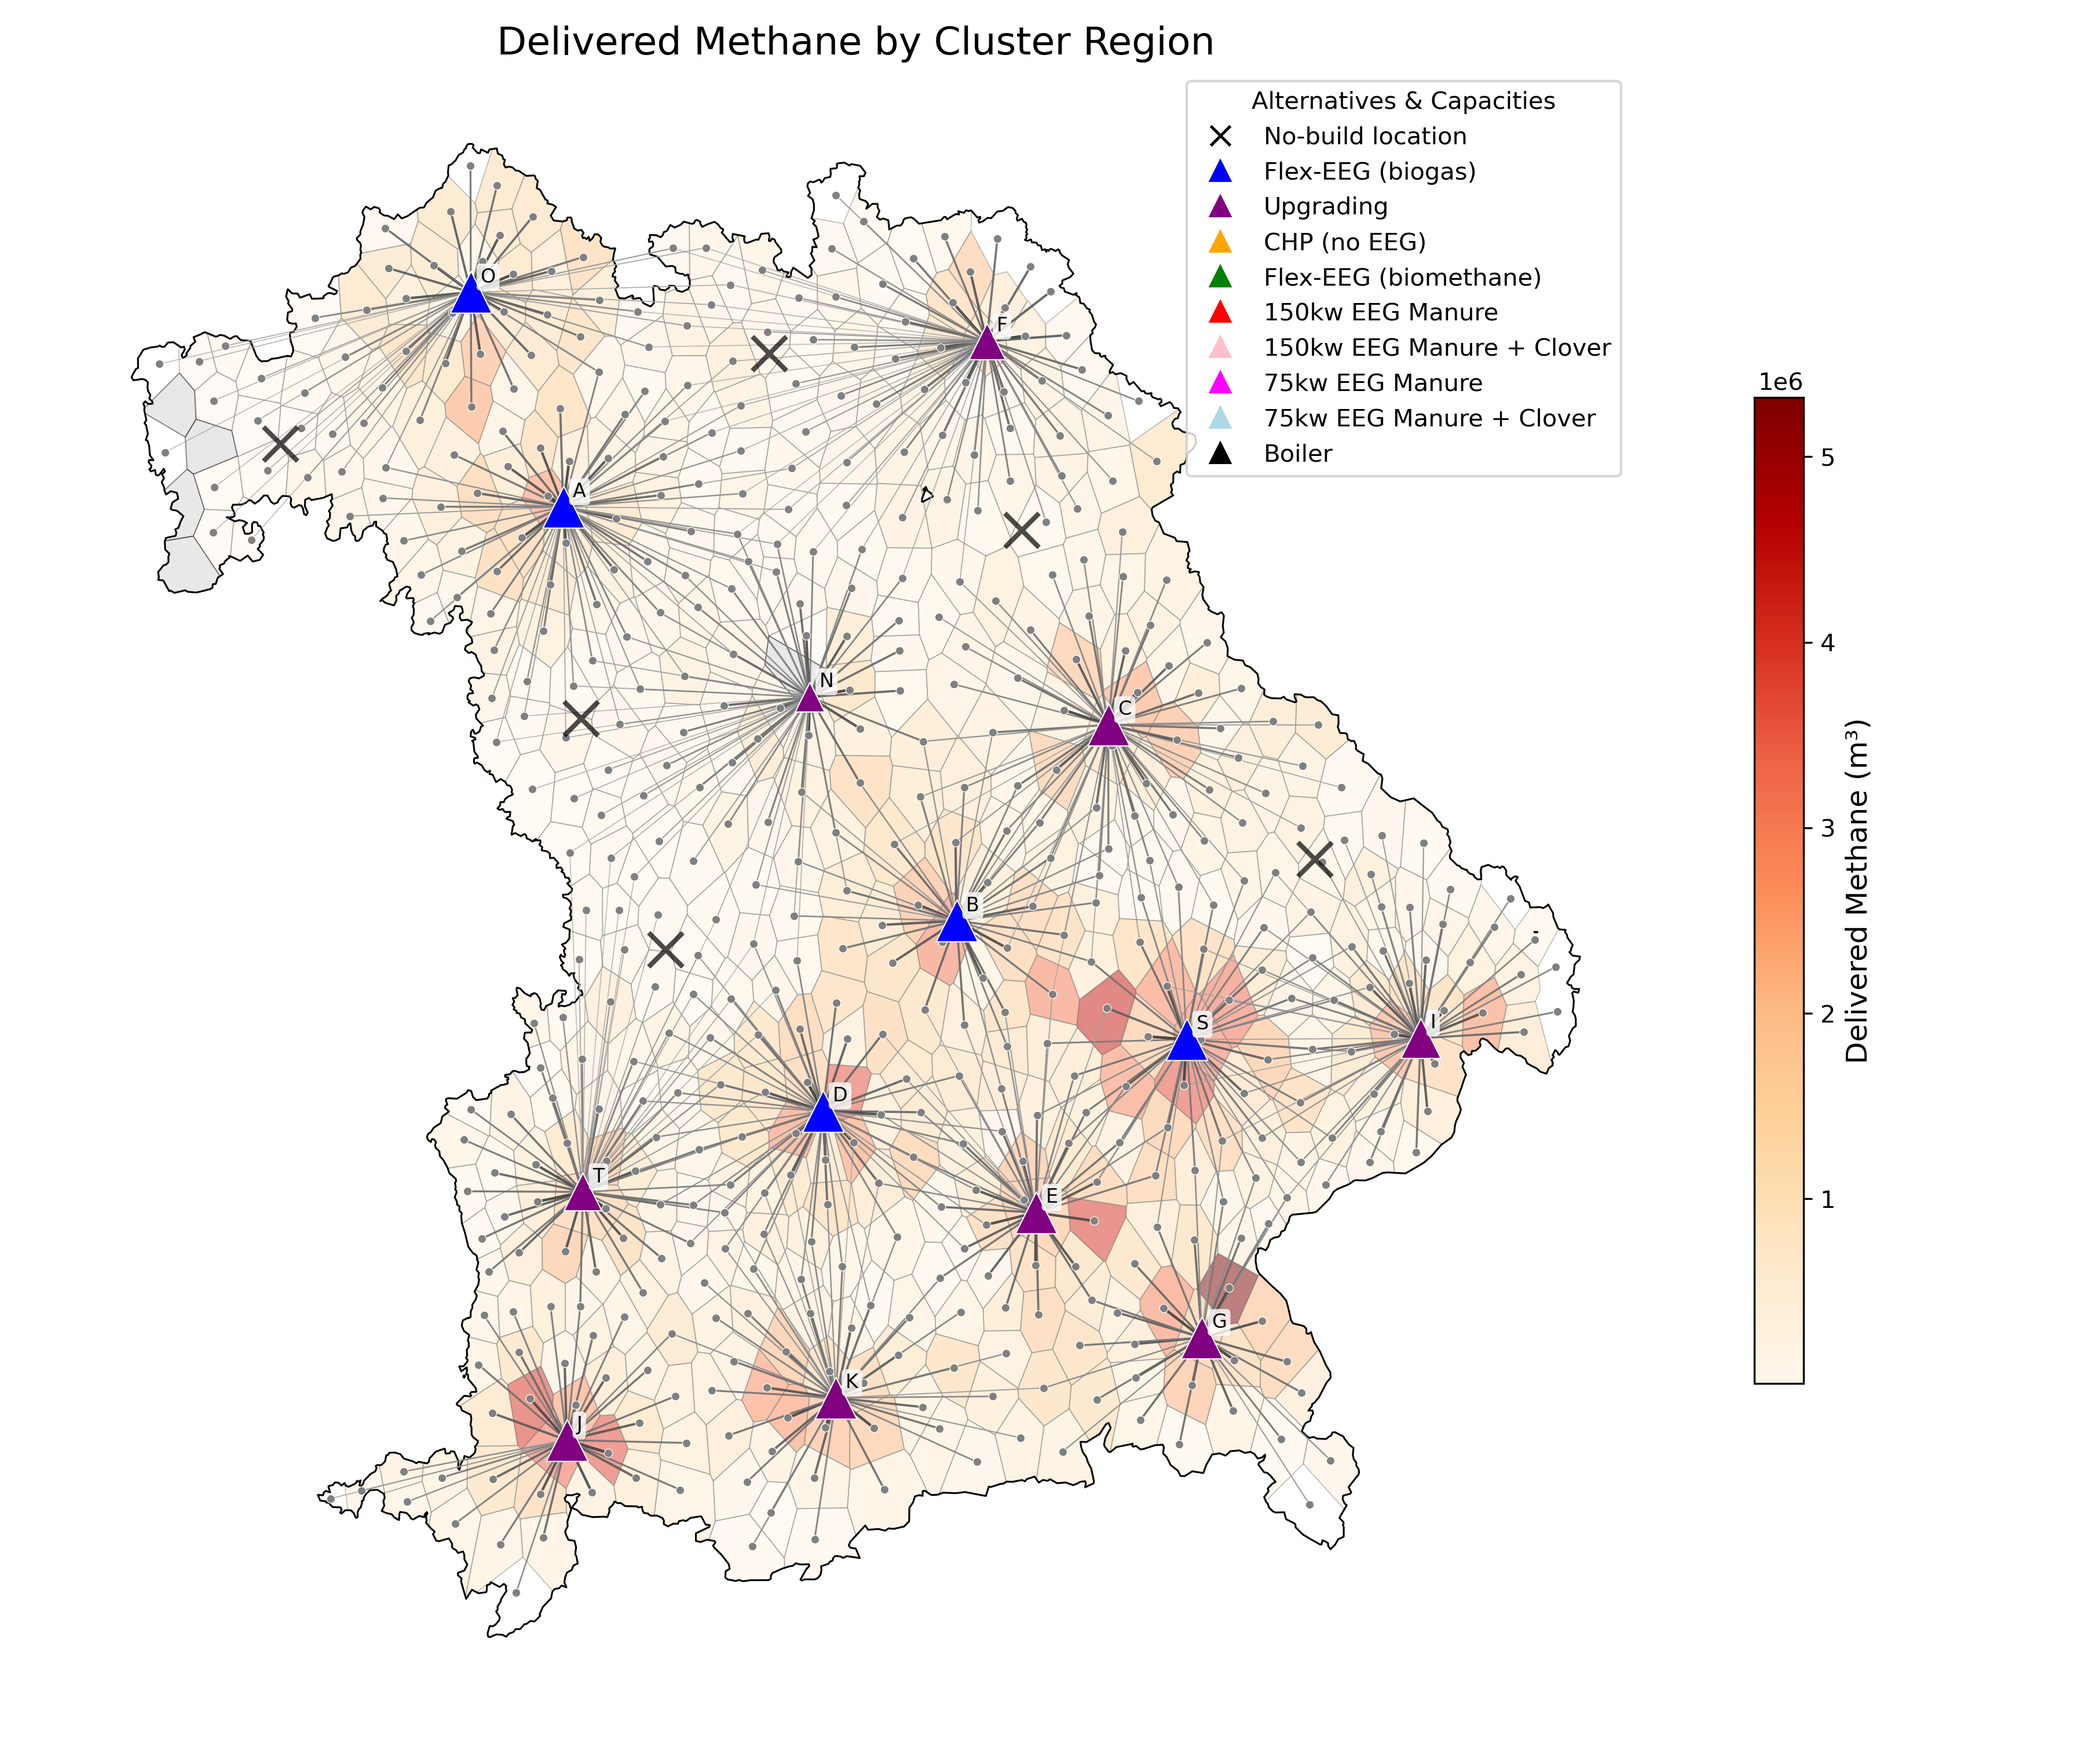
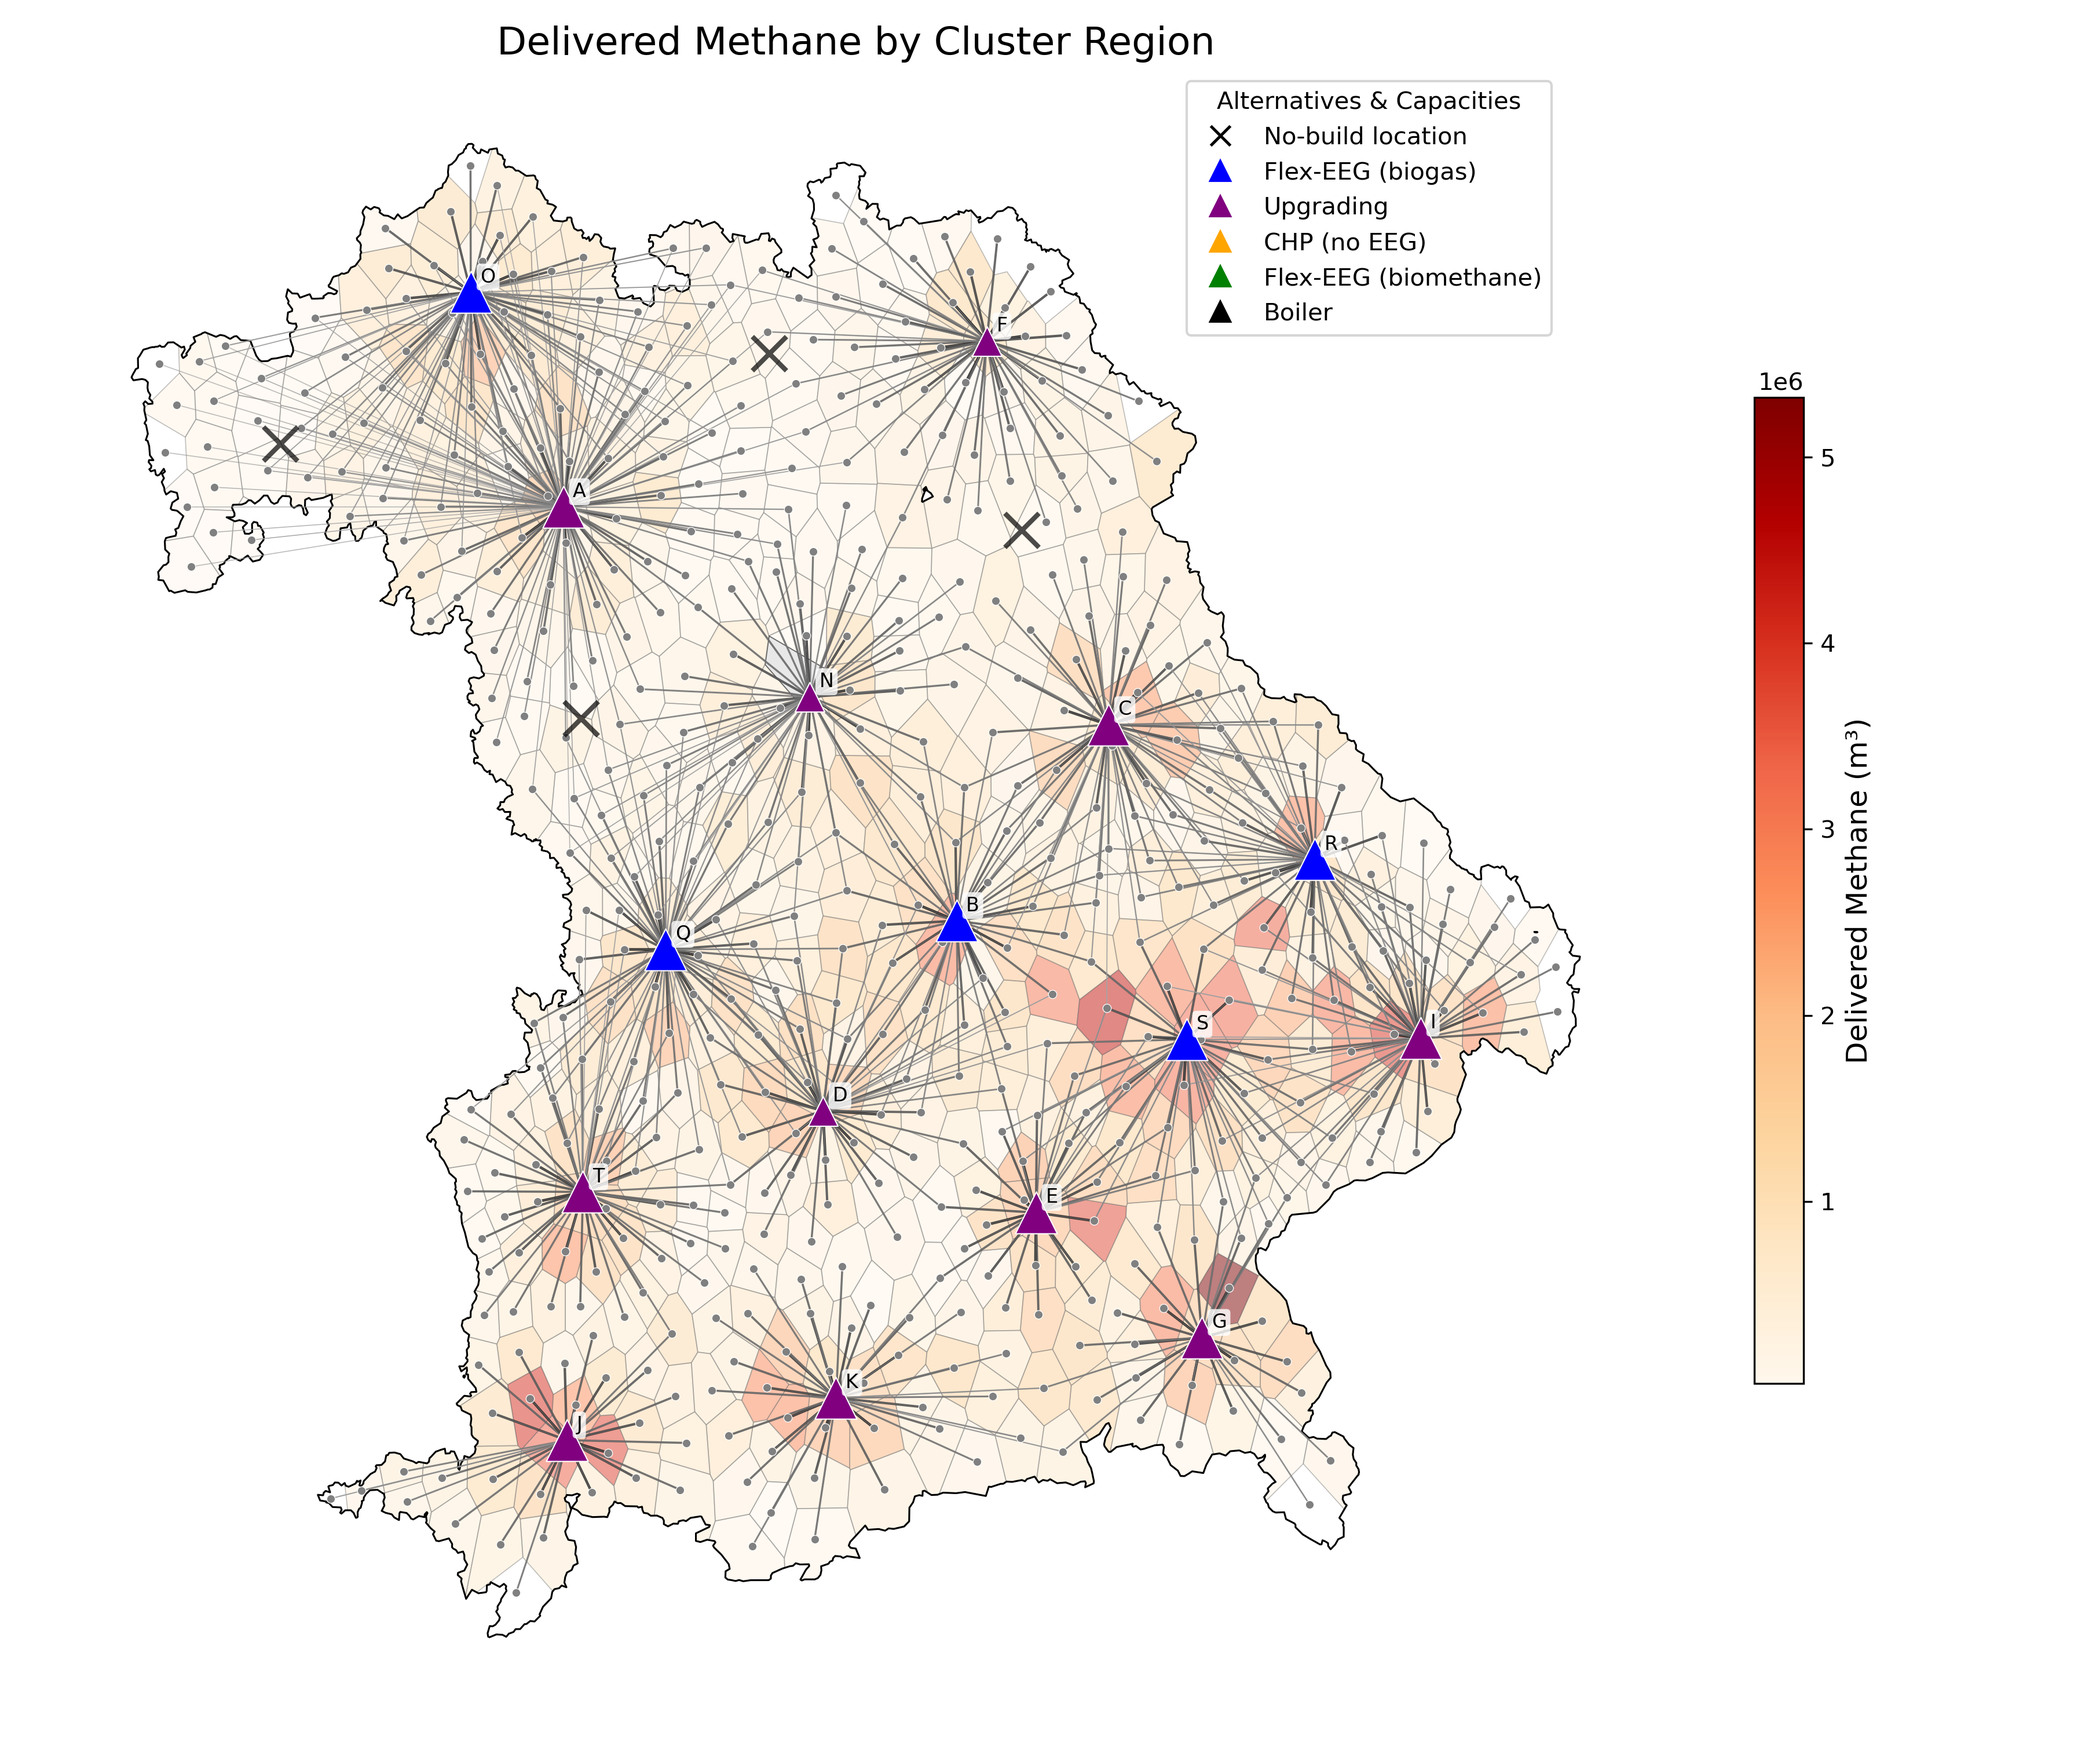
eee

diff --git a/code/greedy_capacity.py b/code/greedy_capacity.py
@@ -26,8 +26,8 @@ def load_data():
 
     try:
         feedstock_df = safe_load_csv(f"{BASE_DIR}aggregated_bavaria_supply_nodes.csv")
-        plant_df = safe_load_csv(f"{BASE_DIR}equally_spaced_locations_20.csv")
-        distance_df = safe_load_csv(f"{BASE_DIR}Distance_Matrix_20.csv")
+        plant_df = safe_load_csv(f"{BASE_DIR}Solutions/100/equally_spaced_locations_100.csv")
+        distance_df = safe_load_csv(f"{BASE_DIR}Solutions/100/Distance_Matrix.csv")
         yields_df = safe_load_csv(f"{BASE_DIR}Feedstock_yields.csv")
     except FileNotFoundError as e:
         print(f"Critical error: {str(e)}")
@@ -86,43 +86,12 @@ def initialize_parameters():
     }
 
 # Define CAPACITY LEVELS
-capacity_levels = [10_000_000, 20_000_000, 40_000_000, 60_000_000]
+capacity_levels = [500000,]
 
 # Define ALTERNATIVE CONFIGURATIONS
 # Define alternative configurations
 def get_alternative_configs(params):
     return [
-        {"name": "FlexEEG_biogas", "category": "FlexEEG_biogas", "prod_cap_factor": params["cap_biogas"], 
-         "max_cap_m3_year": None, "upg_cost_coeff": 0, "upg_cost_exp": 0, 
-         "rev_price": {"EEG": params["EEG_skip_chp_price"]}, "EEG_flag": True, 
-         "GHG_eligible": False, "feed_constraint": None, "capex_coeff": 150.12, 
-         "capex_exp": -0.311, "capex_type": "standard", "opex_coeff": 2.1209, 
-         "opex_exp": 0.8359, "opex_type": "standard"},
-        
-        {"name": "Upgrading_tech1", "category": "Upgrading", "prod_cap_factor": 1.0, 
-         "max_cap_m3_year": None, "upg_cost_coeff": 47777, "upg_cost_exp": -0.421, 
-         "rev_price": {"gas": params["gas_price_mwh"] * (params["alphaHV"] / 1000), 
-                      "co2": params["co2_price_ton"] / 556.2}, 
-         "EEG_flag": False, "GHG_eligible": True, "feed_constraint": None, 
-         "capex_coeff": 150.12, "capex_exp": -0.311, "capex_type": "standard", 
-         "opex_coeff": 2.1209, "opex_exp": 0.8359, "opex_type": "standard"},
-        
-        {"name": "nonEEG_CHP", "category": "CHP_nonEEG", "prod_cap_factor": 1.0, 
-         "max_cap_m3_year": None, "upg_cost_coeff": 0, "upg_cost_exp": 0, 
-         "rev_price": {"spot": params["electricity_spot_price"], 
-                      "heat": params["heat_price"]}, 
-         "EEG_flag": False, "GHG_eligible": False, "feed_constraint": None, 
-         "capex_coeff": 150.12, "capex_exp": -0.311, "capex_type": "standard", 
-         "opex_coeff": 2.1209, "opex_exp": 0.8359, "opex_type": "standard"},
-        
-        {"name": "FlexEEG_biomethane_tech1", "category": "FlexEEG_biomethane", 
-         "prod_cap_factor": params["cap_biomethane"], "max_cap_m3_year": None, 
-         "upg_cost_coeff": 47777, "upg_cost_exp": -0.421, 
-         "rev_price": {"EEG": params["EEG_skip_upg_price"]}, "EEG_flag": True, 
-         "GHG_eligible": False, "feed_constraint": None, "capex_coeff": 150.12, 
-         "capex_exp": -0.311, "capex_type": "standard", "opex_coeff": 2.1209, 
-         "opex_exp": 0.8359, "opex_type": "standard"},
-
         {"name": "EEG_CHP_small1", "category": "EEG_CHP_small", "prod_cap_factor": 1.0, "max_cap_m3_year": params['EEG_small_m3'],
         "upg_cost_coeff": 0, "upg_cost_exp": 0, "rev_price": {"EEG": params['EEG_price_small']},
         "EEG_flag": True, "GHG_eligible": False, "feed_constraint": 1,
@@ -146,7 +115,6 @@ def get_alternative_configs(params):
         "EEG_flag": True, "GHG_eligible": False, "feed_constraint": 2,
         "capex_coeff": 150.12, "capex_exp": -0.311, "capex_type": "standard",
         "opex_coeff": 2.1209, "opex_exp": 0.8359, "opex_type": "standard"},
-
     ]
 
 # HELPER FUNCTIONS FOR FEEDSTOCK CLASSIFICATION

diff --git a/code/plots.py b/code/plots.py
@@ -14,9 +14,9 @@ import seaborn as sns
 
 BASE_DIR = "C:/Clone/Master/"
 FILES = {
-    "in_flow": os.path.join(BASE_DIR, "results/large_scale_cont/10_greedy_with_alternatives/greedy_reopt/Flows_Reopt.csv"),
+    "in_flow": os.path.join(BASE_DIR, "results/large_scale_cont/10_greedy_with_alternatives/greedy_100/Output_in_flow_20_opti.csv"),
     #"out_flow": os.path.join(BASE_DIR, "/Output_out_flow.csv"),
-    "financials": os.path.join(BASE_DIR, "results/large_scale_cont/10_greedy_with_alternatives/greedy_reopt/Financials_Reopt.csv"),
+    "financials": os.path.join(BASE_DIR, "results/large_scale_cont/10_greedy_with_alternatives/greedy_100/Output_financials_20_opti.csv"),
     #"feedstock": os.path.join(BASE_DIR, "processed_biomass_data.csv"),
     "feedstock": os.path.join(BASE_DIR, "aggregated_bavaria_supply_nodes.csv"),
     "plant": os.path.join(BASE_DIR, "equally_spaced_locations_20.csv"),
@@ -287,10 +287,6 @@ def plot_cluster_heatmap(in_flow_df, yields_df, fin_df,
         "Upgrading_tech1"      : "purple",
         "nonEEG_CHP"           : "orange",
         "FlexEEG_biomethane"   : "green",
-        "EEG_CHP_large1"    : "red",
-        "EEG_CHP_large2" : "pink",
-        "EEG_CHP_small1"   : "magenta",
-        "EEG_CHP_small2"    : "lightblue",
         "boiler" : "black",
 
 
@@ -546,8 +542,6 @@ def plot_cluster_heatmap(in_flow_df, yields_df, fin_df,
             title="Alternatives & Capacities",
             loc="upper left", bbox_to_anchor=(0.7, 1))
 
-
-    
     ax.set_axis_off()
     plt.tight_layout()
     fig.savefig(output_png, dpi=300)
@@ -604,7 +598,7 @@ color_map = {
 "cattle_slu": "chocolate",
 "horse_man": "rosybrown",
 "pig_slu": "lightpink",
-"pig_man": "pink",
+"pig_man": "red",
 "cereal_str": "gold",
 "clover_alfalfa_grass": "seagreen",
 "perm_grass": "lawngreen",
@@ -829,10 +823,10 @@ def energy_transported():
 
 
 #plot_methane_fraction(fin_df, system_methane_average)
-#plot_feedstock_stacked_chart(in_flow_df, feedstock_types, color_map)
-#plot_cluster_heatmap(in_flow_df, yields_df, fin_df, plant_coords, supply_coords,FILES["bavaria_geojson"], os.path.join(BASE_DIR, "cluster_heatmap.png"))
+plot_feedstock_stacked_chart(in_flow_df, feedstock_types, color_map)
+plot_cluster_heatmap(in_flow_df, yields_df, fin_df, plant_coords, supply_coords,FILES["bavaria_geojson"], os.path.join(BASE_DIR, "cluster_heatmap.png"))
 #plot_bavaria_lau_highlight_with_labels(gisco_ids)
 #plot_distance_summary(in_flow_df, supply_coords, plant_coords,output_png="distance_distribution.png")
 #plot_irr_vs_rate(fin_df, interest_rate=0.042, output_png="irr_summary.png")
-plot_feedstock_costs(yields_df, output_filename="feedstock_cost_plot.png", 
-                        capacity_dig=27, loading_cost_dig=37, cost_ton_km_dig=0.104)
+#plot_feedstock_costs(yields_df, output_filename="feedstock_cost_plot.png", capacity_dig=27, loading_cost_dig=37, cost_ton_km_dig=0.104)
+energy_transported()

diff --git a/code/indicator_new.py b/code/indicator_new.py
@@ -11,16 +11,16 @@ script_start_time = time.time()
 
 # 1) LOAD DATA
 try:
-    BASE_DIR = "/home/fredrgaa/Master/"
+    BASE_DIR = "/home/fredrgaa/Optimal/"
     if not os.path.exists(BASE_DIR):
         raise FileNotFoundError("Linux path does not exist")
 except FileNotFoundError:
-    BASE_DIR = "C:/Clone/Master/"
+    BASE_DIR = "C:/Optimal/"
     if not os.path.exists(BASE_DIR):
         raise FileNotFoundError("Neither Linux nor Windows path exists")
 
 # Use BASE_DIR in your script
-output_dir = os.path.join(BASE_DIR, "results/large_scale_cont/10_greedy_with_alternatives/greedy_opt_ind/204060/")
+output_dir = os.path.join(BASE_DIR, "results/large_scale_cont/10_greedy_with_alternatives/greedy_opt_ind/")
 os.makedirs(output_dir, exist_ok=True)
 
 feedstock_df = pd.read_csv(f"{BASE_DIR}aggregated_bavaria_supply_nodes.csv")
@@ -269,13 +269,26 @@ def build_model(config):
                     lb=0, ub=ub_ch4,
                     vtype=GRB.CONTINUOUS, name="m_up")
     
+    # right after you build dist_ik = {(i,j):km,...} and avail_mass…
+    MAX_DIST = 150
+
+        # when you add x-vars, only allow positive ub if dist ≤ MAX_DIST
     x = m.addVars(
         supply_nodes, feedstock_types, plant_locs,
         lb=0,
-        ub={(i, f, j): avail_mass.get((i, f), 0) / 1e6 for i in supply_nodes for f in feedstock_types for j in plant_locs},
+        ub={
+            (i,f,j):
+            (avail_mass.get((i,f), 0)/1e6)
+            if dist_ik.get((i,j), 9999) <= MAX_DIST
+            else 0.0
+            for i in supply_nodes
+            for f in feedstock_types
+            for j in plant_locs
+        },
         vtype=GRB.CONTINUOUS,
         name="x"
     )
+
     # Precompute all (i,f,j) that must be zero
     zero_triplets = [
         (i,f,j)
@@ -681,7 +694,7 @@ if __name__ == '__main__':
                     "Distance_km": distance
                 })
     in_flow_df = pd.DataFrame(inflow_rows)
-    in_flow_df.to_csv(os.path.join(output_dir, "Output_in_flow_20_opti_204060.csv"), index=False)
+    in_flow_df.to_csv(os.path.join(output_dir, "Output_in_flow_20_opti.csv"), index=False)
     '''
     print("\nDebugging Y[j, a, c].X values:")
     for j in plant_locs:
@@ -790,7 +803,7 @@ if __name__ == '__main__':
 
     fin_df = pd.DataFrame(merged_rows)
     print(f"Saving financials with {len(merged_rows)} rows")
-    fin_df.to_csv(os.path.join(output_dir, "Output_financials_20_opti_204060.csv"), index=False)
+    fin_df.to_csv(os.path.join(output_dir, "Output_financials_20_opti.csv"), index=False)
 
     warmstart_path = os.path.join(output_dir, "warmstart.sol")
     m.write(warmstart_path)

diff --git a/code/small_scale_plot.py b/code/small_scale_plot.py
@@ -9,7 +9,7 @@ import matplotlib as mpl
 
 # --- CONFIGURATION ---
 BASE_DIR = "C:/Clone/Master/"
-PLANT_FILE = os.path.join(BASE_DIR, "equally_spaced_locations_100.csv")
+PLANT_FILE = os.path.join(BASE_DIR, "Solutions/100/equally_spaced_locations_100.csv")
 IN_FLOW_FILE_30 = os.path.join(BASE_DIR, "results/small_scale/small_scale_30/Output_in_flow.csv")
 GEOJSON_PATH = os.path.join(BASE_DIR, "bavaria_cluster_regions.geojson")
 LAU_SHELL   = os.path.join(BASE_DIR, "bavaria_lau_clean.geojson")
@@ -17,8 +17,8 @@ FEEDSTOCK   = os.path.join(BASE_DIR, "aggregated_bavaria_supply_nodes.csv")
 
 SCENARIOS = [
     {"label": "Base case",  "fin_file": "results/small_scale/small_scale_normal/Output_financials.csv", "color": "red"},
-    {"label": "+1.5 ct/kWh", "fin_file": "results/small_scale/small_scale_15/Output_financials.csv",    "color": "blue"},
-    {"label": "+3 ct/kWh", "fin_file": "results/small_scale/small_scale_30/Output_financials.csv",    "color": "green"},
+    {"label": "+15 €/MWh", "fin_file": "results/small_scale/small_scale_15/Output_financials.csv",    "color": "blue"},
+    {"label": "+30 €/MWh", "fin_file": "results/small_scale/small_scale_30/Output_financials.csv",    "color": "green"},
 ]
 
 # --- LOAD COMMON DATA ---
@@ -89,9 +89,10 @@ for scen in SCENARIOS[::-1]:
         zorder=5 if scen["label"]=="Base case" else 4,
         label=f"{scen['label']} ({len(built)})"
     )
-    # Colorbar
-vmin = clusters_gdf["Methane_for_plot"].min()
-vmax = clusters_gdf["Methane_for_plot"].max()
+
+vmin = clusters_gdf["PlotMethane"].min()
+vmax = clusters_gdf["PlotMethane"].max()
+
 norm = mpl.colors.Normalize(vmin=vmin, vmax=vmax)
 sm = mpl.cm.ScalarMappable(norm=norm, cmap="OrRd")
 sm.set_array([])
